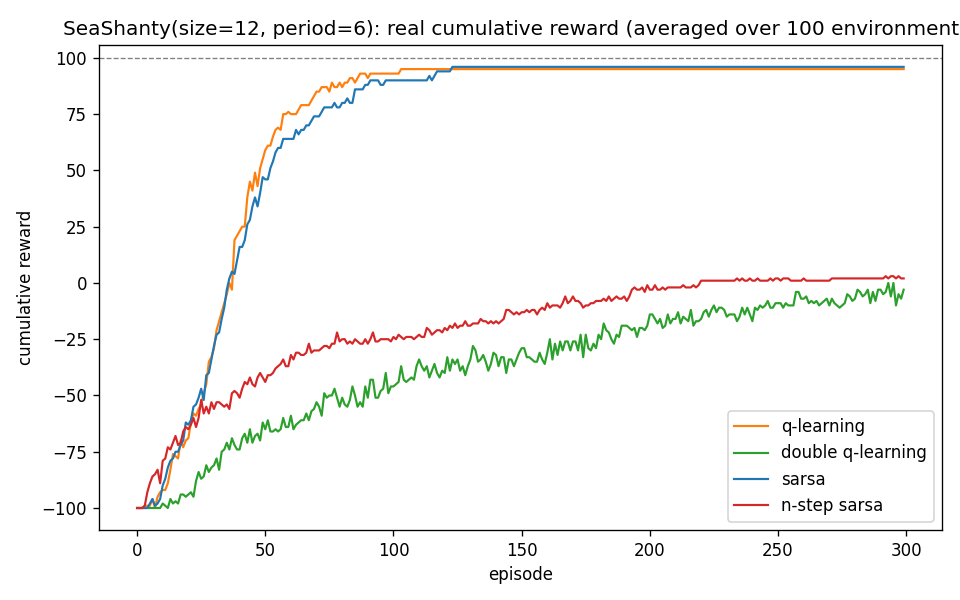
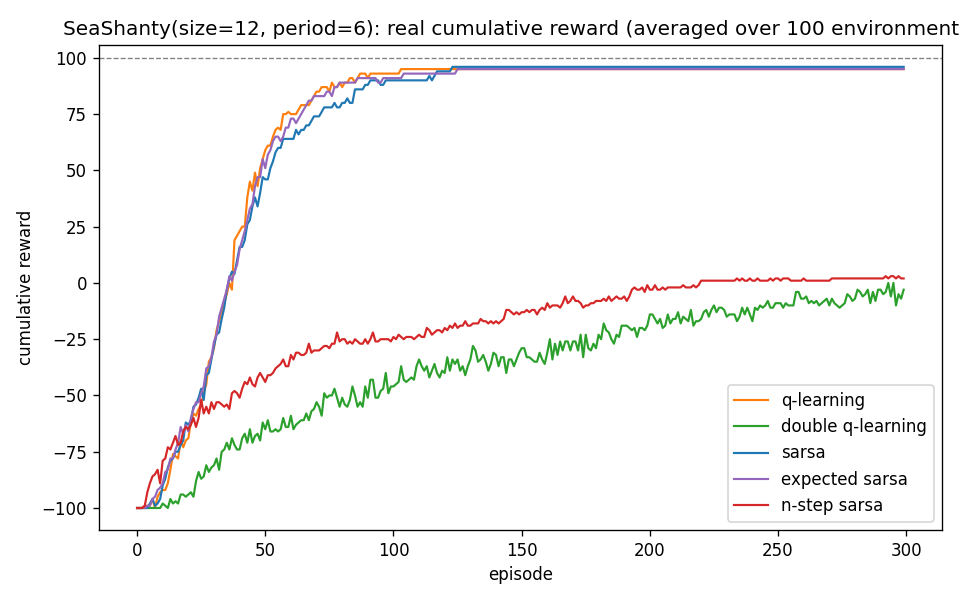
new report

diff --git a/report/Task1_Report.tex b/report/Task1_Report.tex
@@ -80,9 +80,11 @@ reduzieren -- das ist neben der gro\ss en $-100$-Strafe besonders wichtig.
 
 \subsection{On-policy: SARSA (in sarsa.py)}
 SARSA bewertet die Politik, der es wirklich folgt, und ist dadurch \emph{vorsichtiger}
-nahe am t\"odlichen Wasser. Wir haben \textbf{SARSA} und \textbf{n-step SARSA} ($n=4$)
-umgesetzt; n-step gibt die Belohnungs-Information mehrere Schritte weiter zur\"uck und
-verteilt so das Lob schneller entlang des Weges zum Ziel.
+nahe am t\"odlichen Wasser. Wir haben \textbf{SARSA}, \textbf{Expected SARSA} und
+\textbf{n-step SARSA} ($n=4$) umgesetzt. Expected SARSA bootstrappt auf dem Erwartungswert
+$E_\pi[Q(s',a')]$ statt auf einer einzelnen n\"achsten Aktion (geringere Varianz); n-step
+gibt die Belohnungs-Information mehrere Schritte weiter zur\"uck und verteilt so das Lob
+schneller entlang des Weges zum Ziel.
 
 % =====================================================================
 \section{Wichtige Techniken}
@@ -119,34 +121,28 @@ so \emph{schnelles} Lernen.
 % =====================================================================
 \section{Ergebnisse}
 % =====================================================================
-Abbildung~\ref{fig:qcurve} zeigt die geforderte Lernkurve f\"ur Q-Learning: die reale
-Belohnung pro Episode, gemittelt \"uber 100 Umgebungen. Nach einer Anfangsphase mit
-vielen fr\"uhen Toden steigt die Kurve und n\"ahert sich $+100$, sobald die
-Greedy-Politik das Ziel zuverl\"assig erreicht. Double Q-Learning verh\"alt sich
-\"ahnlich, mit etwas ruhigeren Werten.
+Abbildung~\ref{fig:compare} zeigt das zentrale Ergebnis: die reale kumulierte Belohnung
+pro Episode, gemittelt \"uber 100 Umgebungen (Seeds 1000--1099), f\"ur alle f\"unf Methoden.
+Jede Methode benutzt ihre \emph{eigenen} mit Optuna getunten Hyperparameter; die orange
+Q-Learning-Kurve ist zugleich die geforderte Lernkurve (Summe der echten, nicht geshapten
+Belohnungen).
 
-\IfFileExists{learning_curve.png}{%
-\begin{figure}[h]
-  \centering
-  \includegraphics[width=0.62\textwidth]{learning_curve.png}
-  \caption{Q-Learning: reale kumulierte Belohnung pro Episode, gemittelt \"uber
-           100 Umgebungen (Seeds 1000--1099).}
-  \label{fig:qcurve}
-\end{figure}}{}
-
-Abbildung~\ref{fig:compare} vergleicht alle vier Methoden auf denselben 100 Umgebungen;
-jede Methode benutzt dabei ihre \emph{eigenen} mit Optuna getunten Hyperparameter.
-Q-Learning und 1-Schritt-SARSA steigen z\"ugig auf etwa $+95$ (gel\"ost nach rund
-100--120 Episoden). Double Q-Learning und n-step SARSA lernen deutlich langsamer: Ihre
-Kurven steigen stetig, erreichen innerhalb von 300 Episoden aber nur die
-\glqq \"Uberlebens\grqq-Politik um $0$ und noch nicht das Ziel (Gr\"unde siehe Diskussion).
+Q-Learning, 1-Schritt-SARSA und Expected SARSA steigen z\"ugig auf etwa $+95$ und l\"osen
+die Umgebung nach rund 100--120 Episoden. Double Q-Learning und n-step SARSA lernen deutlich
+langsamer: Ihre Kurven steigen zwar stetig, erreichen innerhalb von 300 Episoden aber nur
+die \glqq \"Uberlebens\grqq-Politik um $0$ und noch nicht das Ziel (Gr\"unde siehe
+Diskussion). Expected SARSA verh\"alt sich praktisch wie 1-Schritt-SARSA -- sein Vorteil,
+die geringere Varianz durch den Erwartungswert statt einer einzelnen Stichprobe, wirkt vor
+allem in \emph{stochastischen} Umgebungen; hier ist die Dynamik pro Episode deterministisch,
+daher der kaum sichtbare Unterschied.
 
 \IfFileExists{methods_comparison.png}{%
 \begin{figure}[h]
   \centering
-  \includegraphics[width=0.62\textwidth]{methods_comparison.png}
-  \caption{Vergleich aller vier Methoden: reale kumulierte Belohnung pro Episode,
-           gemittelt \"uber 100 Umgebungen (Seeds 1000--1099).}
+  \includegraphics[width=0.68\textwidth]{methods_comparison.png}
+  \caption{Vergleich aller f\"unf Methoden: reale kumulierte Belohnung pro Episode,
+           gemittelt \"uber 100 Umgebungen (Seeds 1000--1099), jede mit ihren \emph{eigenen}
+           getunten Hyperparametern. Die Q-Learning-Kurve ist die geforderte Lernkurve.}
   \label{fig:compare}
 \end{figure}}{}
 
@@ -159,14 +155,15 @@ Kurven steigen stetig, erreichen innerhalb von 300 Episoden aber nur die
 \midrule
 Q-Learning        & l\"ost schnell & $\rightarrow +95$ & prim\"are L\"osung, am schnellsten\\
 SARSA (1-Schritt) & l\"ost schnell & $\rightarrow +95$ & fast so schnell wie Q-Learning\\
+Expected SARSA    & l\"ost schnell & $\rightarrow +95$ & wie SARSA, geringere Varianz\\
 Double Q-Learning & \"uberlebt     & $\approx 0$ & konvergiert langsam (zwei Tabellen)\\
 n-step SARSA ($n{=}4$) & \"uberlebt & $\approx 0$ & konvergiert langsam (n-step-Returns)\\
 \bottomrule
 \end{tabular}
 \caption{Vergleich der Methoden auf den Auswertungs-Umgebungen (Seeds 1000--1099) nach
          300 Episoden, jede mit ihren \emph{eigenen} getunten Hyperparametern.
-         Q-Learning und 1-Schritt-SARSA l\"osen; Double Q-Learning und n-step SARSA
-         erreichen nur die \"Uberlebens-Politik ($\approx 0$).}
+         Q-Learning, 1-Schritt-SARSA und Expected SARSA l\"osen; Double Q-Learning und
+         n-step SARSA erreichen nur die \"Uberlebens-Politik ($\approx 0$).}
 \end{table}
 
 % =====================================================================